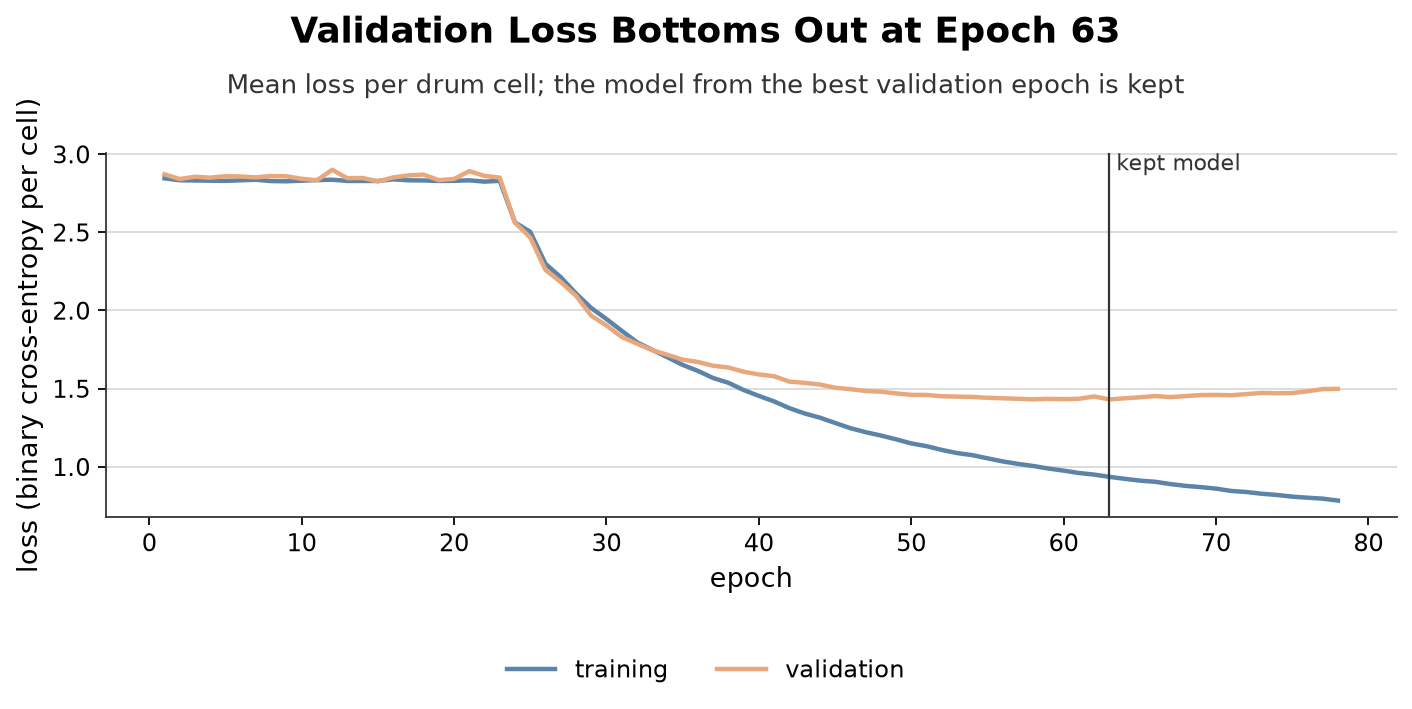
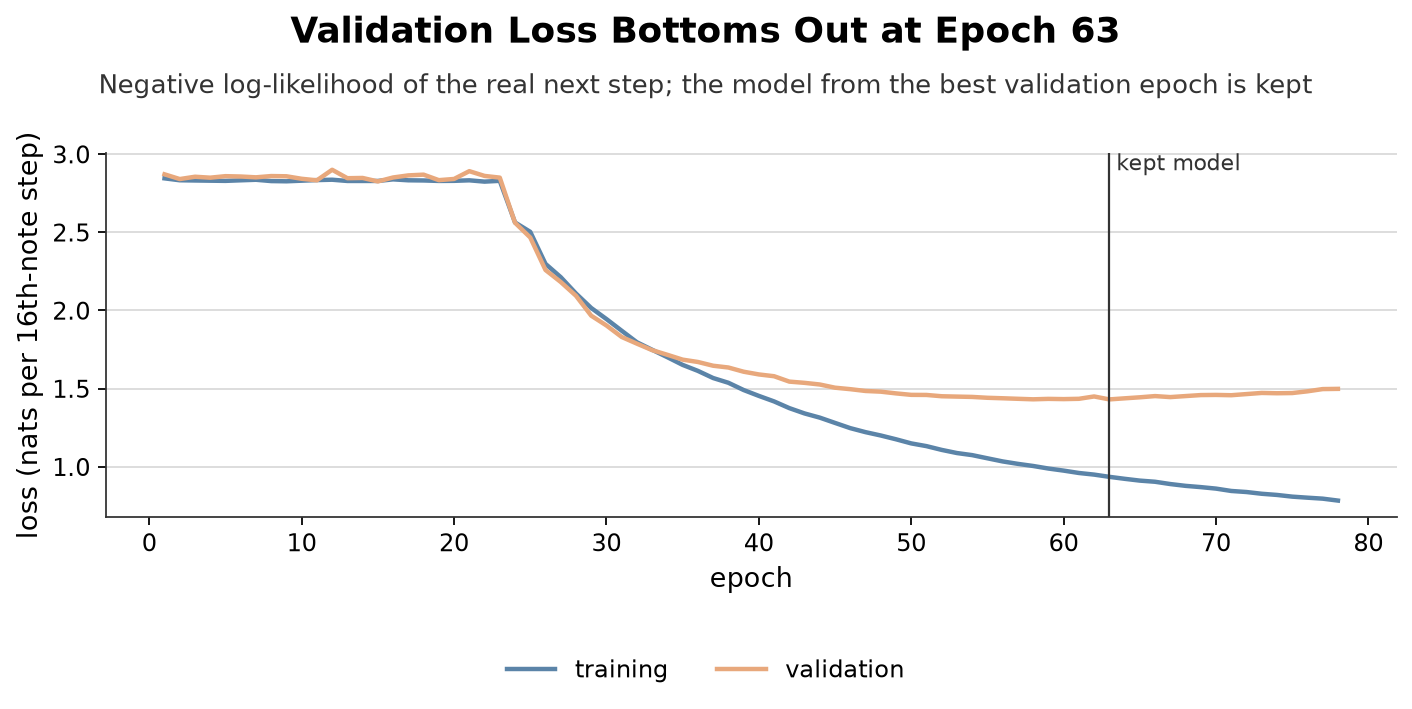
Fix loss curve axis label

Changed region(s): [[0.0623, 0.0931, 0.9348, 0.1551], [0.0, 0.1551, 0.0312, 0.8068]]

diff --git a/src/plots.py b/src/plots.py
@@ -55,7 +55,7 @@ def plot_quantization(starts: np.ndarray, channels: np.ndarray, pattern: np.ndar
 
 
 def plot_loss_curve(history: dict) -> plt.Figure:
-    """Train and validation loss per epoch (mean BCE per cell), best epoch marked; returns the figure."""
+    """Train and validation loss per epoch (nats per step), best epoch marked; returns the figure."""
     fig, ax = plt.subplots(figsize=(9, 4.5))
     epochs = np.arange(1, len(history["train"]) + 1)
     ax.plot(epochs, history["train"], color=PALETTE[0], lw=2, label="training")
@@ -63,8 +63,8 @@ def plot_loss_curve(history: dict) -> plt.Figure:
     ax.axvline(history["best_epoch"], color=INK, lw=1)
     ax.text(history["best_epoch"], ax.get_ylim()[1], " kept model", va="top", color=INK, fontsize=10)
     ax.set_xlabel("epoch")
-    ax.set_ylabel("loss (binary cross-entropy per cell)")
+    ax.set_ylabel("loss (nats per 16th-note step)")
     legend_below(ax, ncol=2)
     decorate(fig, f"Validation Loss Bottoms Out at Epoch {history['best_epoch']}",
-             subtitle="Mean loss per drum cell; the model from the best validation epoch is kept")
+             subtitle="Negative log-likelihood of the real next step; the model from the best validation epoch is kept")
     return fig
